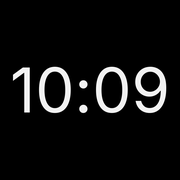
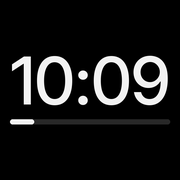
Refine clock typography and add smooth seconds bar
- Time in Inter Tight 500 (Inter's display cut), sized to the widest time
- Date as a small, widely tracked uppercase label for clearer hierarchy
- Higher-contrast secondary text in the light theme
- Seconds bar under the time that fills smoothly over each minute,
  driven by one CSS transition per minute so the compositor animates it
- Icon redrawn to match

Changed region(s): [[0.0556, 0.3056, 0.9444, 0.6944]]

diff --git a/index.html b/index.html
@@ -25,6 +25,12 @@
     font-weight: 400;
     src: url('fonts/inter-latin-400-normal.woff') format('woff');
   }
+  /* Inter Tight: Inter's display cut, spaced for large sizes (OFL 1.1, fonts/InterTight-LICENSE.txt) */
+  @font-face {
+    font-family: 'Inter Tight';
+    font-weight: 500;
+    src: url('fonts/inter-tight-latin-500-normal.woff') format('woff');
+  }
 
   html, body {
     margin: 0;
@@ -58,23 +64,49 @@
     text-align: center;
   }
 
+  /* Type hierarchy: one dominant element (the time), then small, widely
+     tracked labels. Display type gets tighter tracking, small caps looser. */
   #time {
-    font-weight: 400;
-    font-size: 30vw;
-    line-height: 1;
-    letter-spacing: -0.02em;
+    font-family: 'Inter Tight', Inter, -apple-system, "Helvetica Neue", sans-serif;
+    font-weight: 500;
+    font-size: 33vw;     /* widest time ("04:44") is 2.7em: ~89% of the width */
+    line-height: 0.8;    /* trim the empty space above the digits */
+    letter-spacing: -0.01em;
     white-space: nowrap;
   }
+
+  /* Seconds bar: fills smoothly over each minute. Sized by #clock, which
+     shrink-wraps the time, so the bar spans exactly the digits. */
+  #seconds {
+    position: relative;
+    height: 4px;
+    margin-top: 3.2vw;
+    border-radius: 2px;
+    overflow: hidden;
+    background: rgba(255,255,255,0.13);
+    /* Make WebKit clip the transformed child to the rounded corners */
+    -webkit-mask-image: -webkit-radial-gradient(white, black);
+  }
+  #seconds-fill {
+    width: 100%;
+    height: 100%;
+    border-radius: 2px;
+    background: #f2f2f2;
+    -webkit-transform: translate3d(-100%, 0, 0);
+    transform: translate3d(-100%, 0, 0);
+  }
+
   #date {
-    margin-top: 1vw;
-    font-size: 5vw;
-    font-weight: 300;
-    color: #b5b5b5;
-    letter-spacing: 0.02em;
+    margin-top: 3.4vw;
+    font-size: 3.4vw;
+    font-weight: 400;
+    text-transform: uppercase;
+    letter-spacing: 0.16em;
+    color: #8f8f8f;
   }
 
   #weather {
-    margin-top: 5vw;
+    margin-top: 4.5vw;
     color: #d8d8d8;
     opacity: 0;
     -webkit-transition: opacity 0.6s;
@@ -104,14 +136,17 @@
 
   /* Light theme (double-tap to switch) */
   body.light { background: #f5f5f3; color: #111; }
-  body.light #date { color: #555; }
-  body.light #weather, body.light #w-desc { color: #333; }
-  body.light #w-detail { color: #777; }
+  body.light #date { color: #5c5c5c; }
+  body.light #weather, body.light #w-desc { color: #2a2a2a; }
+  body.light #w-detail { color: #5f5f5f; }
+  body.light #seconds { background: rgba(0,0,0,0.1); }
+  body.light #seconds-fill { background: #111; }
 
   /* Portrait: the screen is narrow, so size off the width more generously */
   @media (orientation: portrait) {
-    #time { font-size: 32vw; }
-    #date { font-size: 7vw; margin-top: 2vw; }
+    #time { font-size: 34vw; }
+    #seconds { margin-top: 4.5vw; }
+    #date { font-size: 4.4vw; margin-top: 4.5vw; }
     #weather { margin-top: 12vw; }
     #w-icon, #w-temp { font-size: 10vw; }
     #w-detail { font-size: 4.2vw; }
@@ -120,7 +155,10 @@
 </head>
 <body>
 <div id="app">
-  <div id="time">--:--</div>
+  <div id="clock">
+    <div id="time">--:--</div>
+    <div id="seconds"><div id="seconds-fill"></div></div>
+  </div>
   <div id="date">&nbsp;</div>
   <div id="weather">
     <div class="w-row">
@@ -167,11 +205,40 @@
   function renderClock() {
     var now = new Date();
     $('time').innerHTML = pad(now.getHours()) + ':' + pad(now.getMinutes());
-    $('date').innerHTML = DAYS[now.getDay()] + ', ' + MONTHS[now.getMonth()] + ' ' + now.getDate();
+    $('date').innerHTML = DAYS[now.getDay()] + ' &middot; ' + MONTHS[now.getMonth()] + ' ' +
+                          now.getDate();
   }
 
+  // The seconds bar is one CSS transition per minute (from wherever we are
+  // now to full, linear), not per-frame JavaScript: the compositor animates
+  // it smoothly, which is far cheaper on the 4s than redrawing every frame.
+  var secondsFill = $('seconds-fill');
+
+  function setFill(fraction, transition) {
+    var t = transition ? '-webkit-transform ' + transition + 'ms linear' : 'none';
+    secondsFill.style.webkitTransition = t;
+    secondsFill.style.transition = transition ? 'transform ' + transition + 'ms linear' : 'none';
+    var x = 'translate3d(' + ((fraction - 1) * 100) + '%, 0, 0)';
+    secondsFill.style.webkitTransform = x;
+    secondsFill.style.transform = x;
+  }
+
+  function syncSeconds() {
+    var now = new Date();
+    var ms = now.getSeconds() * 1000 + now.getMilliseconds();
+    setFill(ms / 60000, 0);
+    secondsFill.offsetWidth;  // force a layout so the jump isn't animated
+    setFill(1, 60000 - ms);
+  }
+
+  var lastMinute = -1;
   function tick() {
     renderClock();
+    var minute = new Date().getMinutes();
+    if (minute !== lastMinute) {
+      lastMinute = minute;
+      syncSeconds();
+    }
     // Re-sync to the top of each second so the minute flips on time.
     setTimeout(tick, 1000 - (new Date().getMilliseconds()) + 5);
   }
@@ -318,7 +385,7 @@
 
   // Timers pause while the phone is locked; refresh as soon as we're visible again.
   document.addEventListener('visibilitychange', function () {
-    if (!document.hidden) { renderClock(); fetchWeather(); }
+    if (!document.hidden) { renderClock(); syncSeconds(); fetchWeather(); }
   });
 
   // Stop iOS rubber-band scrolling in standalone mode.

diff --git a/build.py b/build.py
@@ -18,6 +18,7 @@ CACHED_FILES = [
     'apple-touch-icon.png',
     'fonts/inter-latin-300-normal.woff',
     'fonts/inter-latin-400-normal.woff',
+    'fonts/inter-tight-latin-500-normal.woff',
 ]
 
 
